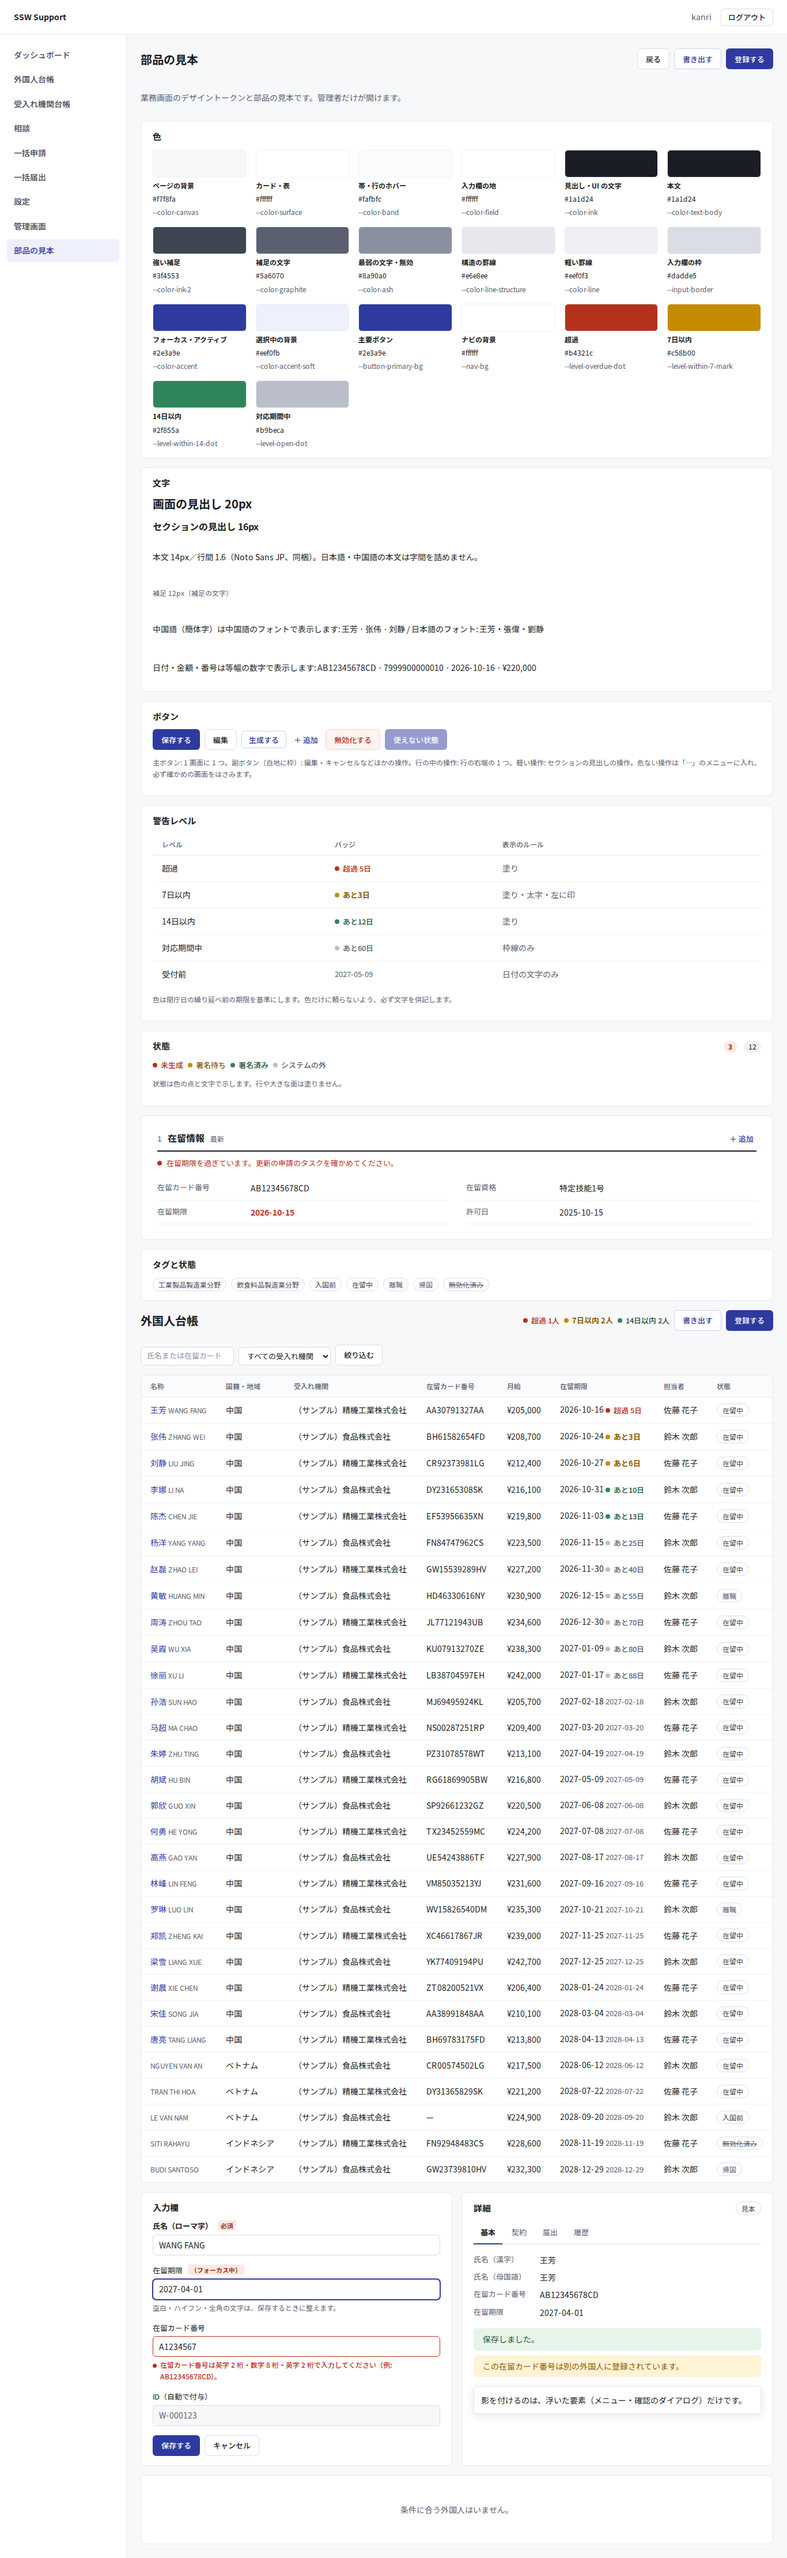
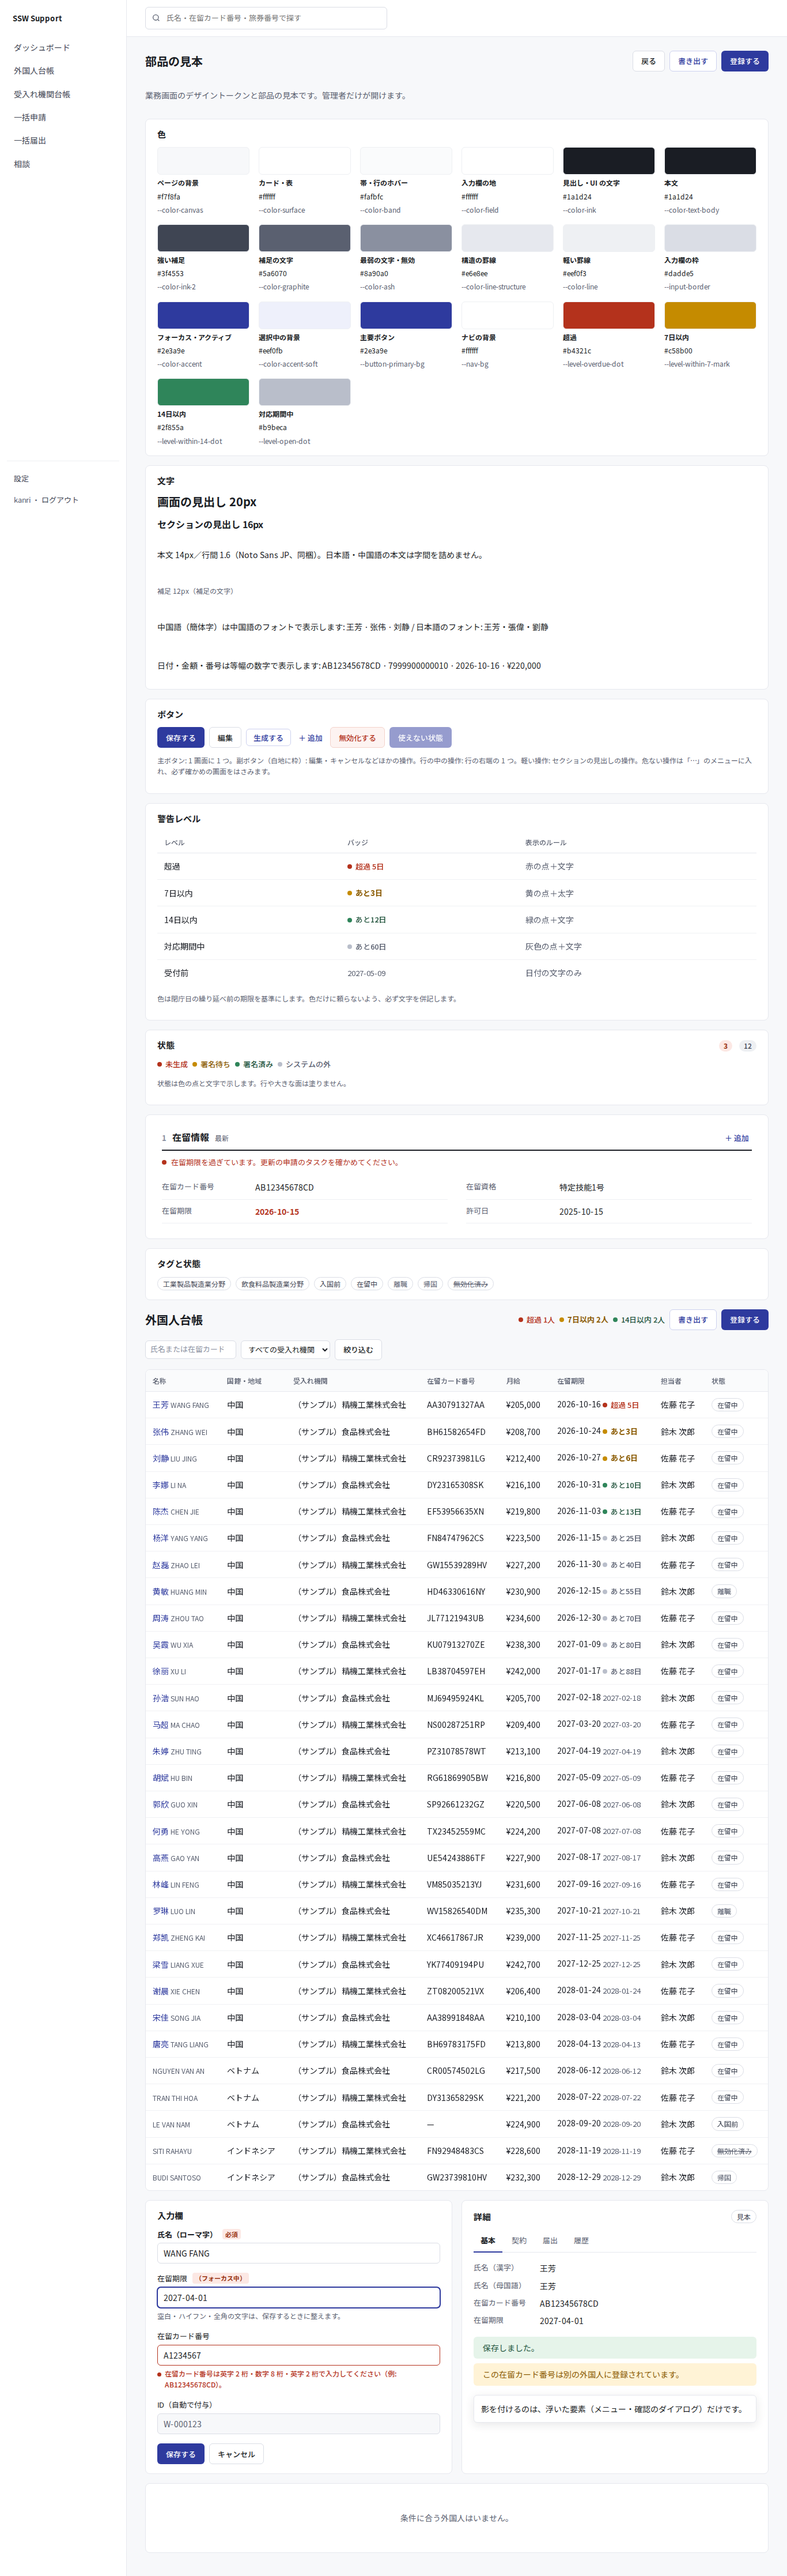
docs: ADR-0046 に画面の骨組みと一覧の画面（U2）を追記し、見本と同じ画面の design-shots（ダッシュボード・外国人台帳）を撮る

diff --git a/docs/decisions/0046-ui-redesign-2026-10.md b/docs/decisions/0046-ui-redesign-2026-10.md
@@ -40,3 +40,15 @@
 ## 未確認の点
 
 - JIS X 0208 に無い人名の漢字（JIS 第3・第4水準など）は、端末の字体に落ちるので字の形が少し変わる（読めなくはならない）。実データで目立つ字があれば、サブセットに足す。
+
+## 追記（U2: 画面の骨組みと一覧の画面。2026-10-21）
+
+1. **骨組み**（`ui/base.html`・`base.css`）: 白いサイドバー（上に機関名、項目、下に設定・ユーザー名・ログアウト）を画面の高さに留める。右の上に白い帯（全体の検索）。前の上のバー（機関名・ユーザー名・ログアウト）はやめた。960px 未満は、サイドバーを上の「メニュー」の折りたたみにする（JS なし。今の形のまま）。
+2. **ナビ**（`context_processors.NAV_ITEMS`）: ダッシュボード・外国人台帳・受入れ機関台帳・一括申請・一括届出・相談、下に設定（U2-D2）。管理画面（admin）へのリンクはどこにも出さない（管理者は `/admin/` を直接開く）。部品の見本は DEBUG のときだけナビに出し、`/ui/` は今の権限（SYSTEM_MANAGE）のまま開ける（U2-D3）。
+3. **全体の検索**（U2-D1）: 上の帯の検索は外国人台帳の `q`（氏名・在留カード番号・旅券番号）に送る。外国人を見る権限のある人だけに出す。
+4. **一覧の画面の型**: 見出しと主ボタン（1 つ）→ 期限のタブ（件数の札。`ui/components/list_tabs.html`・`apps/core/list_tabs.py`）→ 1 行の絞り込み（`ui/components/filter_bar.html`）→ 表のパネル。
+   - 期限のタブ（U2-D5）: ダッシュボードは「すべて・期限超過・7日以内・14日以内・受理待ち」、外国人台帳は「すべて・期限超過・7日以内・14日以内」。「対応期間中」は「すべて」に含める。タブはリンクで、URL の `level`・`status` は今のまま。件数の「すべて」はレベルで絞る前の件数（`services` の結果に `total` を足した。業務の判定は変えない）。
+   - 絞り込み（U2-D4）: select の最初の選択肢を「担当者: すべて」の形にし（`web_forms.label_inside`）、項目名は `aria-label` に残す。選ぶ・チェックを変える・日付を選ぶとそのまま送る（`form[data-auto-submit]`）。検索の欄は Enter で送る。JS が動かないときだけ「絞り込む」ボタンが出る（`.js .js-hidden`）。
+   - ダッシュボードの「担当者なし」「今後の予定」は表の下に残す（U2-D6）。
+5. **届出タスクの表**（ダッシュボードと外国人の届出のタブで共通）: 見本 01 の並び（期限の状態〔点＋文字。受付前は「受付前」〕・期限・種別・対象・届出主体・状態・担当者・行の右端に「記録」）にした。「記録」は主ボタンから行の中の操作にした（主ボタンは 1 画面に 1 つ）。
+6. 表の行の上下の余白を 10px にし、行の高さを 46px にそろえた（文字の種類や札で高さを変えない）。表の中の見えない見出し（絶対位置）が横に送る枠の外へはみ出さないよう、表の枠を `position: relative` にした。
